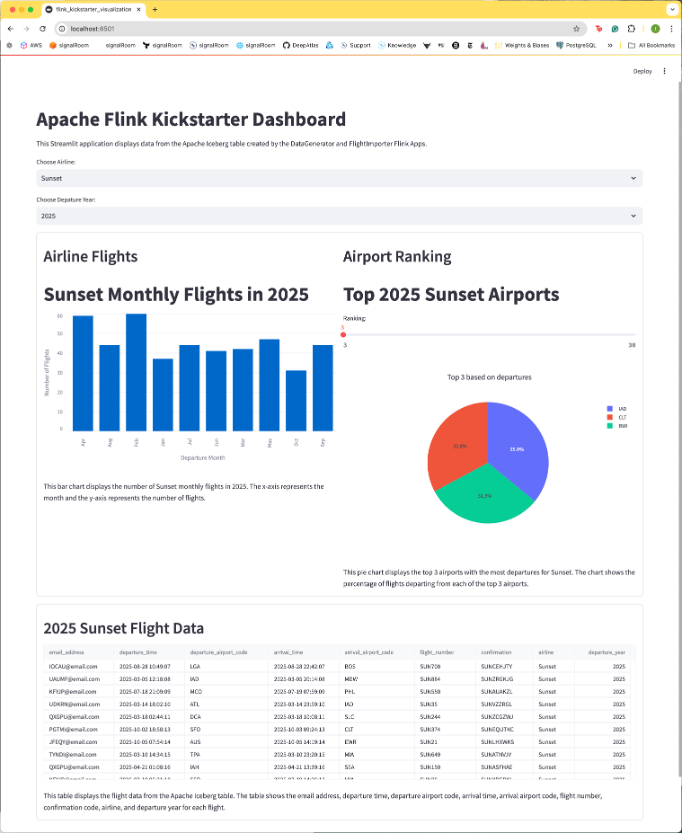
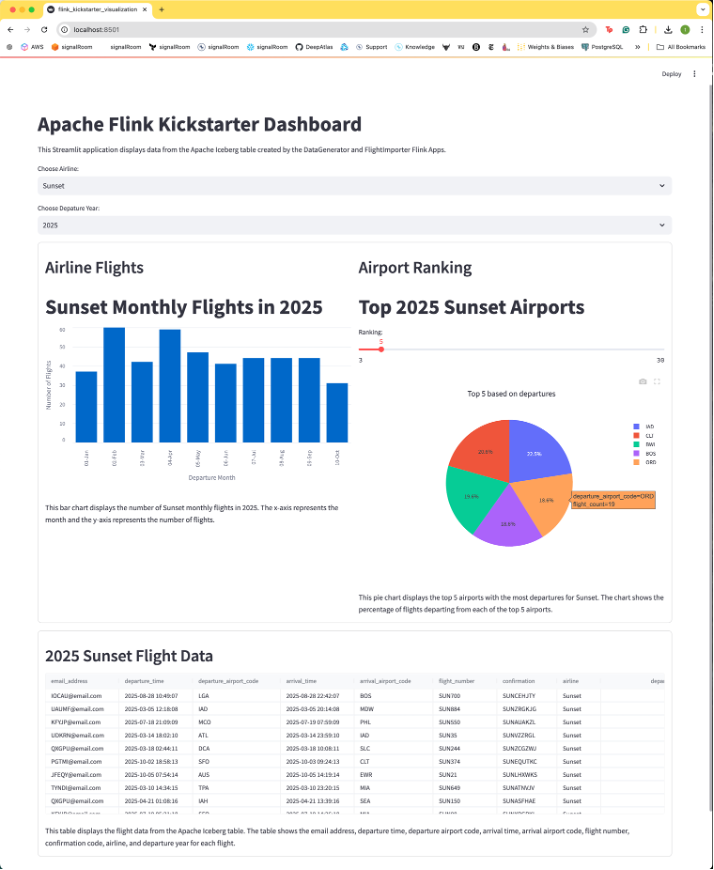
Resolved #388.

diff --git a/python/kickstarter/flink_kickstarter_visualization.py b/python/kickstarter/flink_kickstarter_visualization.py
@@ -37,7 +37,7 @@ def load_data(_tbl_env: StreamTableEnvironment, database_name: str) -> Tuple[pd.
                                                             airline,
                                                             extract(year from to_timestamp(departure_time)) as departure_year,
                                                             extract(month from to_timestamp(departure_time)) as departure_month, 
-                                                            date_format(to_timestamp(departure_time), 'MMM') as departure_month_abbr,
+                                                            concat(date_format(to_timestamp(departure_time), 'MM'), '-', date_format(to_timestamp(departure_time), 'MMM')) as departure_month_abbr,
                                                             count(*) as flight_count
                                                         from
                                                             airlines.flight
@@ -45,7 +45,7 @@ def load_data(_tbl_env: StreamTableEnvironment, database_name: str) -> Tuple[pd.
                                                             airline,
                                                             extract(year from to_timestamp(departure_time)),
                                                             extract(month from to_timestamp(departure_time)),
-                                                            date_format(to_timestamp(departure_time), 'MMM')
+                                                            concat(date_format(to_timestamp(departure_time), 'MM'), '-', date_format(to_timestamp(departure_time), 'MMM'))
                                                         order by
                                                             departure_year asc,
                                                             departure_month asc;
